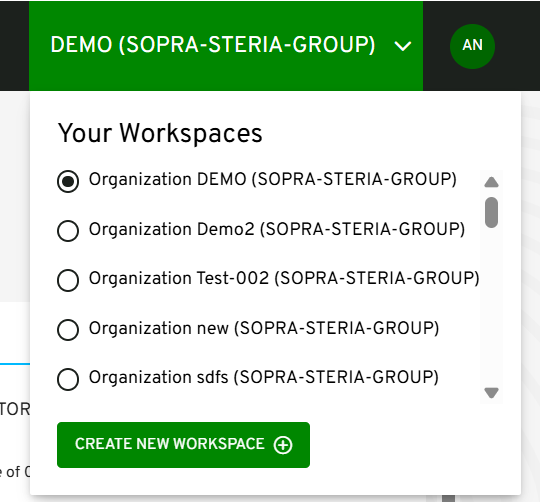
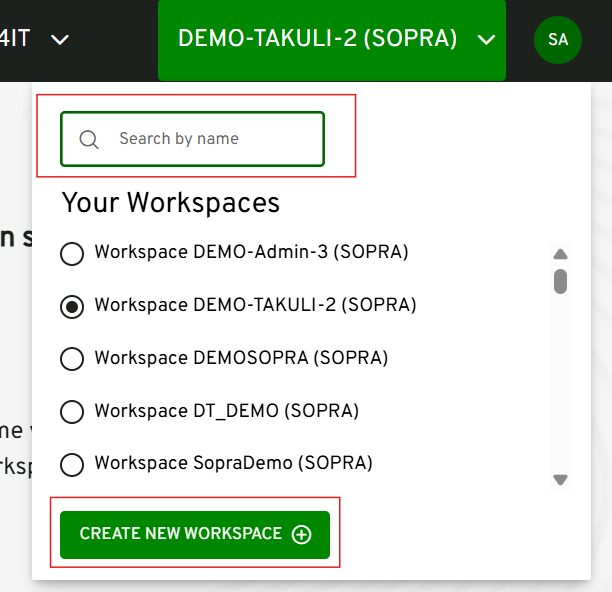
feat(1403): update workspace search documentation

diff --git a/services/documentation/content/2-functional-documentation/use_cases/uc_navigation_menu/uc2_header/uc24_organization_creation.md b/services/documentation/content/2-functional-documentation/use_cases/uc_navigation_menu/uc2_header/uc24_organization_creation.md
@@ -1,6 +1,6 @@
 ---
-title: '5.2.4 Header-Create a Workspace'
-description: 'Create a workspace description'
+title: '5.2.4 Header-Create or search a Workspace'
+description: 'Create or search a workspace description'
 weight: 5024
 ---
 
@@ -10,68 +10,69 @@ weight: 5024
   * [Table of Contents](#table-of-contents)
   * [Description](#description)
   * [State Diagram](#state-diagram)
-  * [Create New Organization Button](#create-new-organization-button)
-  * [Create a New Organization (Right Panel)](#create-a-new-organization-right-panel)
+  * [Create New Workspace or search a workspace Button](#create-new-workspace-or-search-a-workspace-button)
+  * [Create a New Workspace (Right Panel)](#create-a-new-workspace-right-panel)
   * [Mockup](#mockup)
-    * [Organization Name Duplicate Error](#organization-name-duplicate-error)
-    * [Organization Name Space Error](#organization-name-space-error)
-  * [Accessibility in Create New Organization (Right Panel)](#accessibility-in-create-new-organization-right-panel)
+    * [Workspace Name Duplicate Error](#workspace-name-duplicate-error)
+    * [Workspace Name Space Error](#workspace-name-space-error)
+  * [Accessibility in Create New Workspace (Right Panel)](#accessibility-in-create-new-workspace-right-panel)
 <!-- TOC -->
 
 ## Description
 
-As a G4IT user (ROLE_DIGITAL_SERVICE_READ, ROLE_INVENTORY_READ), when accessing the list of organizations, users will
-see a new button to create their own workspace (new organization).
+As a G4IT user (ROLE_DIGITAL_SERVICE_READ, ROLE_INVENTORY_READ), when accessing the list of workspaces, users will
+see a new button to create their own workspace.
 
+To allow users to search for a workspace by name, a text input field is provided that supports case-insensitive searching.
 ## State Diagram
 
-![State diagram illustrating the process of creating a new organization](../images/organization_creation_state_diagram.png)
+![State diagram illustrating the process of creating a new workspace](../images/organization_creation_state_diagram.png)
 
-## Create New Organization Button
+## Create New Workspace or Search a Workspace 
 
-The "Create New Organization" button is located in the organization list menu at the top header.
+The "Create New Workspace" search a workspace" buttons are located in the workspace list menu at the top header.
 
-![Create new organization button located in the organization list menu at the top header](../images/create_organization_button.png)
+![Create new workspace button located in the workspace list menu at the top header](../images/create_organization_button.png)
 
-## Create a New Organization (Right Panel)
+## Create a New Workspace (Right Panel)
 
 Upon clicking the 'Create' button, a right panel will appear with a form to be filled out. The form contains two
-fields: "Choose an Organization" and "Set a Workspace Name."  
-The right panel displays the "Choose an Organization" menu only when more than one organization is available to select.
-The "Next" button will remain disabled until the organization field is selected, and the "Create New Workspace" button
+fields: "Choose a Workspace" and "Set a Workspace Name."  
+The right panel displays the "Choose a Workspace" menu only when more than one workspace is available to select.
+The "Next" button will remain disabled until the workspace field is selected, and the "Create New Workspace" button
 will stay disabled until all mandatory fields are filled.
 
-If only one organization is available, the left panel will not be displayed, and that organization will be
+If only one workspace is available, the left panel will not be displayed, and that workspace will be
 auto-selected. Only the "Set a Workspace Name" field will appear.
 
 ## Mockup
 
-![The form for creating a new organization, with options for selecting an organization and setting a workspace name](../images/create_organization_form_id.png)
+![The form for creating a new workspace, with options for selecting a workspace and setting a workspace name](../images/create_organization_form_id.png)
 
 {{% expand title="Show the behavior detail" expanded="false" center="true"%}}
 
-| Reference | Group       | Elements  | Sub-Elements | Type   | Description                                                                                                                                                                                                                                                            |
-|-----------|-------------|-----------|--------------|--------|------------------------------------------------------------------------------------------------------------------------------------------------------------------------------------------------------------------------------------------------------------------------|
-|           | Left Panel  |           |              | Group  |                                                                                                                                                                                                                                                                        |
-| 1         |             | Menu Item |              | Label  | The menu contains two options: "Choose an Organization" and "Set a Workspace Name." The left panel is only displayed when multiple organizations are available. The "Set a Workspace Name" option will be disabled until the "Choose an Organization" field is filled. |
-|           | Right Panel |           |              | Group  |                                                                                                                                                                                                                                                                        |
-| 2         |             | Form      |              |        | If only one organization is available, the form will only display the "Set a Workspace Name" field.                                                                                                                                                                    |
-| 3         |             |           |              | Button | Clicking this button clears the form data and closes the right panel.                                                                                                                                                                                                  |
-| 4         |             |           |              | Button | The "Create Workspace" button triggers the API call to create a new workspace. Once successful, the page automatically redirects to the new workspace. This button will be enabled only if the form is valid.                                                          |
-| 5         |             |           |              | Button | The "Next" or "Previous" buttons are displayed based on the form's requirements. These buttons are enabled only when the respective field is valid.                                                                                                                    |
-| 6         |             |           |              | Button | The "Close" button closes the right panel.                                                                                                                                                                                                                             |
+| Reference | Group       | Elements  | Sub-Elements | Type   | Description                                                                                                                                                                                                                                                 |
+|-----------|-------------|-----------|--------------|--------|-------------------------------------------------------------------------------------------------------------------------------------------------------------------------------------------------------------------------------------------------------------|
+|           | Left Panel  |           |              | Group  |                                                                                                                                                                                                                                                             |
+| 1         |             | Menu Item |              | Label  | The menu contains two options: "Choose a Workspace" and "Set a Workspace Name." The left panel is only displayed when multiple workspaces are available. The "Set a Workspace Name" option will be disabled until the "Choose a Workspace" field is filled. |
+|           | Right Panel |           |              | Group  |                                                                                                                                                                                                                                                             |
+| 2         |             | Form      |              |        | If only one workspace is available, the form will only display the "Set a Workspace Name" field.                                                                                                                                                            |
+| 3         |             |           |              | Button | Clicking this button clears the form data and closes the right panel.                                                                                                                                                                                       |
+| 4         |             |           |              | Button | The "Create Workspace" button triggers the API call to create a new workspace. Once successful, the page automatically redirects to the new workspace. This button will be enabled only if the form is valid.                                               |
+| 5         |             |           |              | Button | The "Next" or "Previous" buttons are displayed based on the form's requirements. These buttons are enabled only when the respective field is valid.                                                                                                         |
+| 6         |             |           |              | Button | The "Close" button closes the right panel.                                                                                                                                                                                                                  |
 
 {{% /expand %}}
 
-### Organization Name Duplicate Error
+### Workspace Name Duplicate Error
 
-![Error message indicating that the organization name is duplicated](../images/create_organization_name_duplicate.png)
+![Error message indicating that the workspace name is duplicated](../images/create_organization_name_duplicate.png)
 
-### Organization Name Space Error
+### Workspace Name Space Error
 
-![Error message indicating that the organization name has invalid spaces](../images/create_organization_name_space.png)
+![Error message indicating that the workspace name has invalid spaces](../images/create_organization_name_space.png)
 
-## Accessibility in Create New Organization (Right Panel)
+## Accessibility in Create New Workspace (Right Panel)
 
 Upon initialization, focus will be placed automatically on the first form field.  
 On the left menu panel, Arrow Up/Left and Arrow Down/Right can be used to navigate between the menu items.
